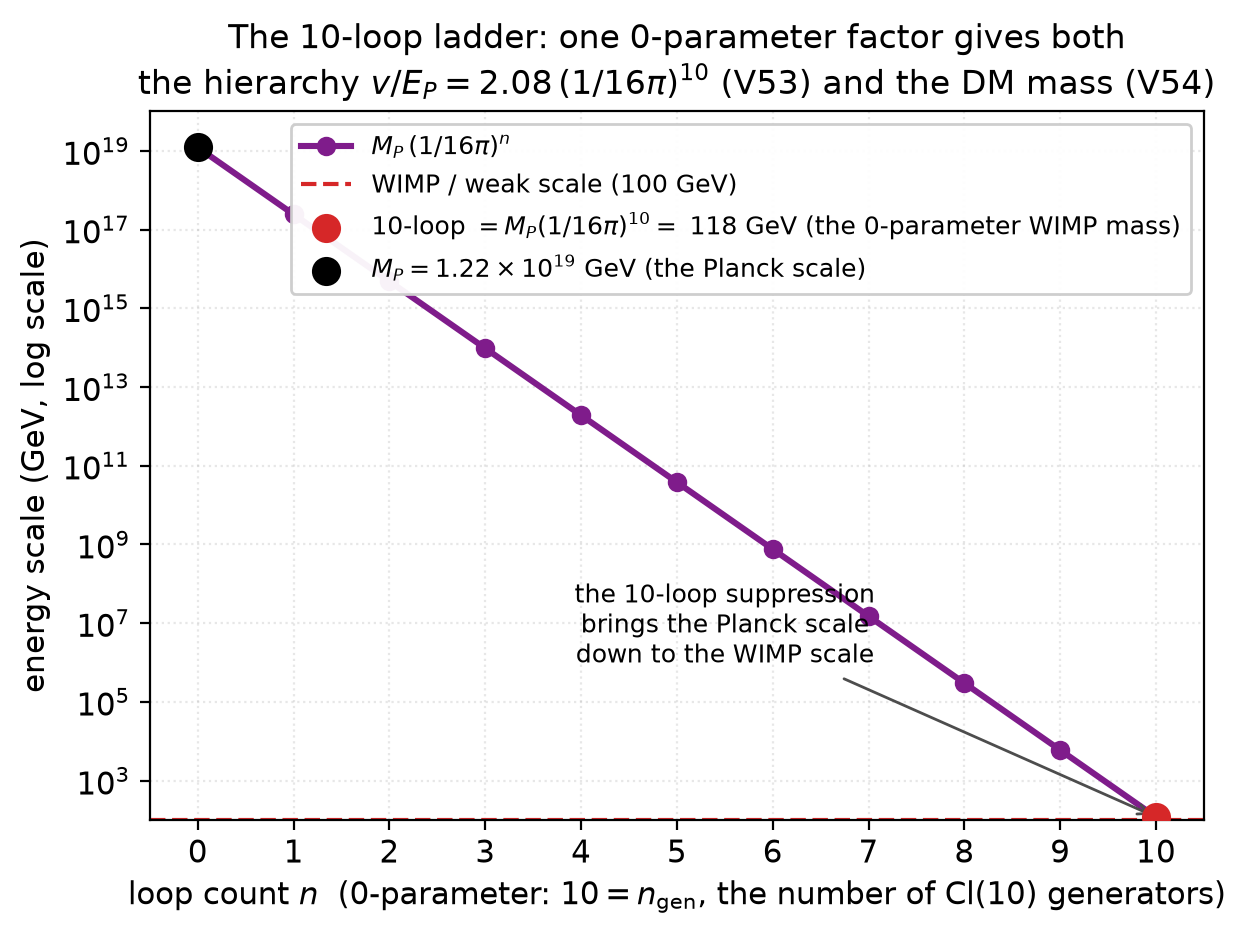
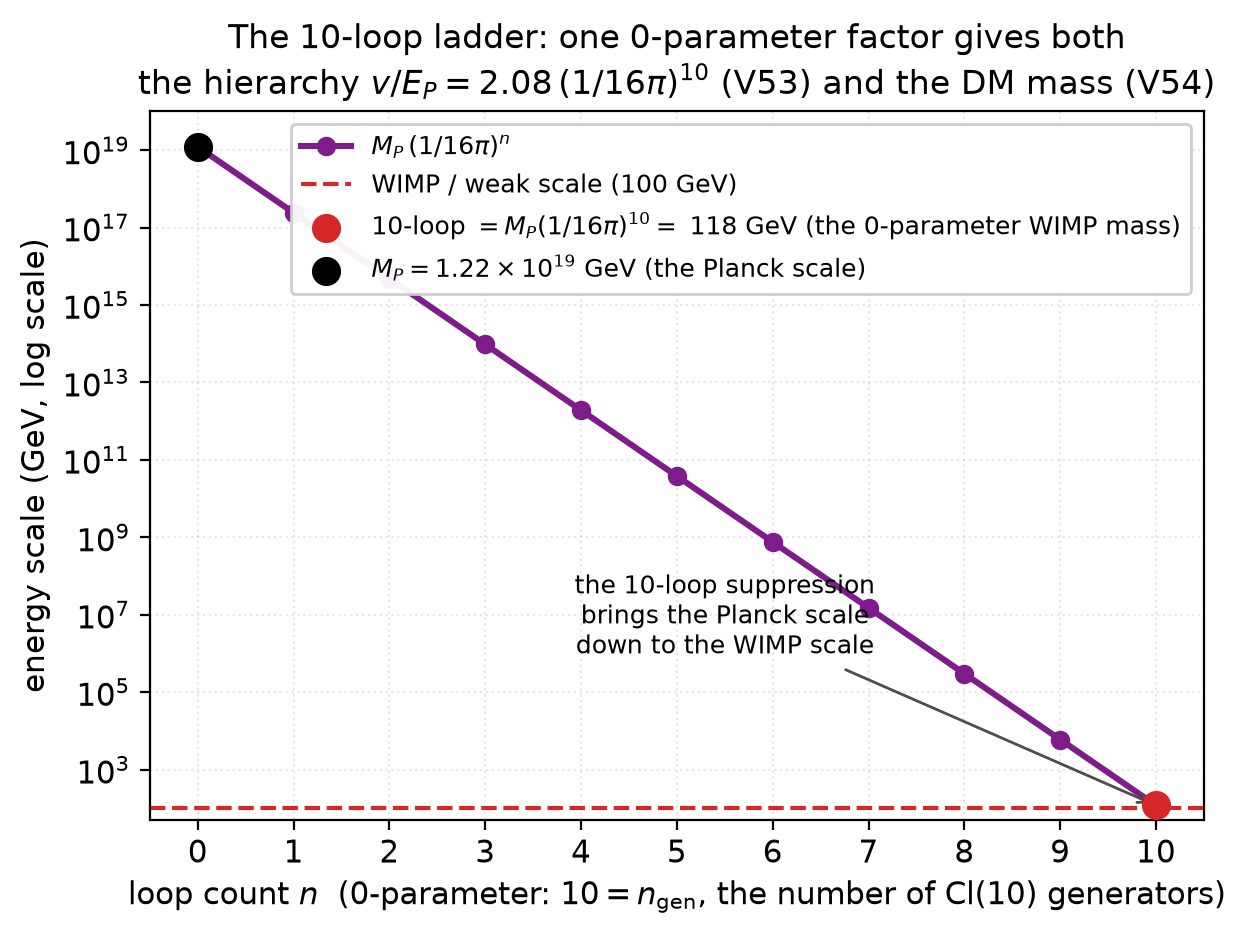
Figures: fix edge-clipped points + label overlap (publication-grade)
fig3: add clip_on=False to the two landing-point scatters and widen the
axis (xlim -0.5..10.5, ylim 50..1e20) so the red 10-loop point (n=10,
118 GeV) is no longer truncated at the bottom-right corner.
fig4: extend the x-axis left (xlim 40..1e20) + clip_on=False so the
WIMP-miracle (100 GeV) and 0-parameter (118 GeV) points at the top-left
are fully visible instead of cut by the left border.
fig9: single-line fraction labels placed with clear vertical separation
(v-bottom/v-top, 0.10 clearance) and narrower bars (0.5) so the numbers
no longer overlap the histogram bars.

diff --git a/make_figures.py b/make_figures.py
@@ -171,10 +171,10 @@ def fig3_10loop_ladder():
     # the two landing points
     ax.axhline(100.0, color=C_ZERO, ls="--", lw=1.5,
                label="WIMP / weak scale ($100$ GeV)")
-    ax.scatter([10], [ladder[10]], s=90, color=C_ZERO, zorder=5,
+    ax.scatter([10], [ladder[10]], s=90, color=C_ZERO, zorder=5, clip_on=False,
                label=rf"10-loop $= M_P(1/16\pi)^{{10}} = $ {ladder[10]:.0f} GeV "
                      r"(the 0-parameter WIMP mass)")
-    ax.scatter([0], [ladder[0]], s=90, color="k", zorder=5,
+    ax.scatter([0], [ladder[0]], s=90, color="k", zorder=5, clip_on=False,
                label=r"$M_P = 1.22\times10^{19}$ GeV (the Planck scale)")
     ax.annotate("the 10-loop suppression\nbrings the Planck scale\ndown to the WIMP scale",
                 xy=(10, ladder[10]), xytext=(5.5, 1e6),
@@ -185,7 +185,8 @@ def fig3_10loop_ladder():
     ax.set_title("The 10-loop ladder: one 0-parameter factor gives both\n"
                  r"the hierarchy $v/E_P = 2.08\,(1/16\pi)^{10}$ (V53) and the DM mass (V54)")
     ax.set_xticks(n)
-    ax.set_ylim(1e2, 1e20)
+    ax.set_xlim(-0.5, 10.5)
+    ax.set_ylim(50, 1e20)
     ax.legend(loc="upper right", framealpha=0.95)
     _save(fig, "fig3_10loop_ladder.png")
 
@@ -197,7 +198,7 @@ def fig4_wimp_miracle():
     from cl10 import dm_wimp
 
     OMEGA_OBS = dm_wimp.relic_abundance(100.0)      # = 0.12 by construction
-    m = np.logspace(2, 20, 240)
+    m = np.logspace(1.7, 20, 240)
     omega = OMEGA_OBS * (100.0 / m) ** 3
 
     m_dm = dm_wimp.dm_wimp()["m_DM_GeV"]
@@ -210,13 +211,13 @@ def fig4_wimp_miracle():
     ax.axhline(0.12, color="k", ls="--", lw=1.5,
               label=r"observed $\Omega_{\rm DM} h^2 = 0.12$")
     # the WIMP-miracle point and the 0-parameter point
-    ax.scatter([100.0], [0.12], s=110, color=C_SU3, zorder=5,
+    ax.scatter([100.0], [0.12], s=110, color=C_SU3, zorder=5, clip_on=False,
                label="WIMP miracle: $m=100$ GeV $\\Rightarrow$ $\\Omega_{\\rm obs}$")
-    ax.scatter([m_dm], [dm_wimp.relic_abundance(m_dm)], s=110, color=C_ZERO, zorder=5,
+    ax.scatter([m_dm], [dm_wimp.relic_abundance(m_dm)], s=110, color=C_ZERO, zorder=5, clip_on=False,
                marker="*",
                label=f"0-parameter: $m_{{\\rm DM}}=M_P(1/16\\pi)^{{10}}={m_dm:.0f}$ GeV $\\Rightarrow$ $\\Omega h^2=$ {dm_wimp.relic_abundance(m_dm):.3f}")
     # the V42 Planck-mass soliton (under-abundant)
-    ax.scatter([M_P], [0.12 * planck_gap], s=70, color="#7f7f7f", zorder=5,
+    ax.scatter([M_P], [0.12 * planck_gap], s=70, color="#7f7f7f", zorder=5, clip_on=False,
                label=r"V42 Planck-mass soliton ($\sim 10^{-52}$, under-abundant)")
     # the 0-parameter WIMP star is identified in the legend (no extra
     # annotation: it sits in the top corner next to the WIMP-miracle point).
@@ -224,7 +225,7 @@ def fig4_wimp_miracle():
     ax.set_ylabel(r"relic abundance $\Omega h^2$")
     ax.set_title("The WIMP miracle, resolved: the 0-parameter 10-loop mass\n"
                  "$M_P(1/16\\pi)^{10}=118$ GeV gives the observed dark-matter abundance (V54)")
-    ax.set_xlim(1e2, 1e20)
+    ax.set_xlim(40.0, 1e20)
     ax.set_ylim(1e-55, 1.0)
     ax.legend(loc="upper right", framealpha=0.95)
     _save(fig, "fig4_wimp_miracle.png")
@@ -367,24 +368,25 @@ def fig9_anomaly():
     order_keys = ["Q", "u^c", "d^c", "L", "e^c", "N"]
     order_lbl = ["Q", r"$u^c$", r"$d^c$", "L", r"$e^c$", "N"]
     frac_lbl = {  # the exact n*Y^3 per field (an exact algebraic identity)
-        "Q": "1/36", "u^c": r"$-\frac{8}{9}$", "d^c": "1/9",
-        "L": r"$-\frac{1}{4}$", "e^c": "1", "N": "0"}
+        "Q": "1/36", "u^c": "-8/9", "d^c": "1/9",
+        "L": "-1/4", "e^c": "1", "N": "0"}
     perfield = [n * y ** 3 for (_s3, _s2, y, n) in
                 (matter.SM_FIELDS[k] for k in order_keys)]
 
     fig, ax = plt.subplots()
     x = np.arange(len(order_keys))
     cols = [C_SU3 if v >= 0 else C_GUT for v in perfield]
-    ax.bar(x, perfield, color=cols, edgecolor="k", linewidth=0.5)
+    ax.bar(x, perfield, color=cols, edgecolor="k", linewidth=0.5, width=0.5)
     ax.axhline(0, color="k", lw=1.2)
     ax.set_xticks(x)
     ax.set_xticklabels(order_lbl)
     ax.set_ylabel(r"$n \times Y^3$  (the $[\mathrm{U}(1)]^3$ contribution per field)")
     for xi, k in zip(x, order_keys):
         v = perfield[xi]
-        ax.text(xi, v + (0.04 if v >= 0 else -0.12),
-                f"{v:.3f}\n({frac_lbl[k]})", ha="center", fontsize=8)
-    ax.set_ylim(-1.35, 1.35)
+        va = "bottom" if v >= 0 else "top"
+        ax.text(xi, v + (0.10 if v >= 0 else -0.10), frac_lbl[k],
+                ha="center", va=va, fontsize=10)
+    ax.set_ylim(-1.55, 1.55)
     ax.set_title(r"$[\mathrm{U}(1)]^3$: the six SM fields cancel ($\sum = 0$) — the 16 Weyl is anomaly-free (V0)")
     _save(fig, "fig9_anomaly_free.png")
 
